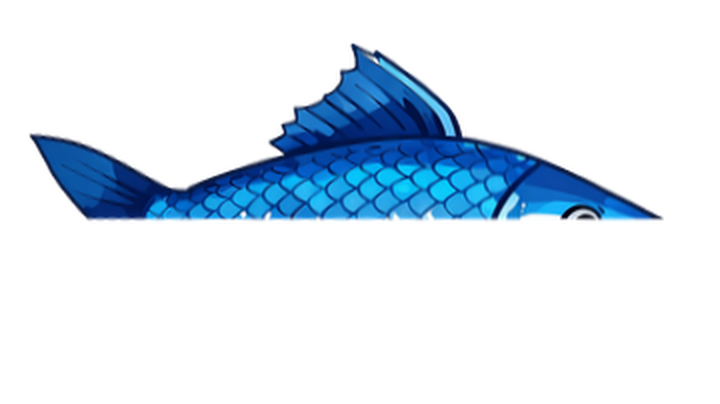
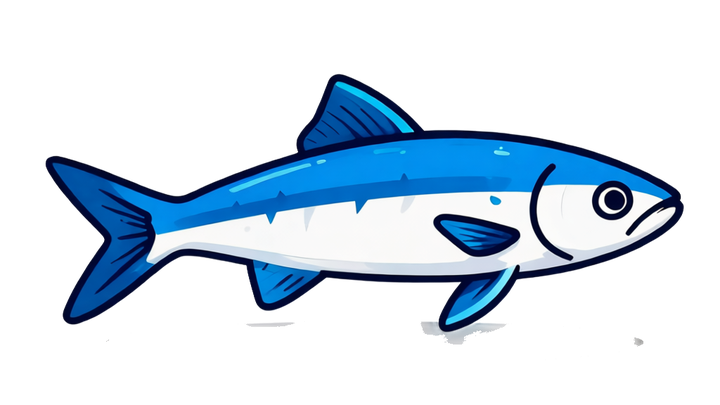
Complete darter (from original ludo commit) + all 10 complete static; add play.html fresh entry point

Changed region(s): [[0.0306, 0.0891, 0.9472, 0.8614], [0.8556, 0.8317, 0.9167, 0.8614]]

diff --git a/fish-hunter/play.html b/fish-hunter/play.html
@@ -1,0 +1,150 @@
+<!DOCTYPE html>
+<html lang="en">
+<head>
+<meta charset="UTF-8">
+<meta name="viewport" content="width=device-width, initial-scale=1.0, maximum-scale=1.0, user-scalable=no">
+<meta name="theme-color" content="#04111f">
+<title>ABYSS HUNTER</title>
+<link rel="stylesheet" href="style.css">
+</head>
+<body>
+
+<!-- ══════════ GAME SHELL ══════════ -->
+<div id="shell">
+
+  <!-- top HUD -->
+  <header id="hud">
+    <a id="back-btn" href="../game-portal/index.html" title="Back to Portal">‹ PORTAL</a>
+    <button id="mute-btn" title="Sound on/off">🔊</button>
+
+    <div class="hud-block">
+      <span class="hud-label">SCORE</span>
+      <span class="hud-value" id="hud-score">0</span>
+    </div>
+
+    <div class="hud-block">
+      <span class="hud-label">CREDITS</span>
+      <span class="credits-val"><span class="coin-ico"></span><span class="hud-value gold" id="hud-credits">0</span></span>
+    </div>
+
+    <div class="hud-block">
+      <span class="hud-label">TIME</span>
+      <span class="hud-value" id="hud-time">90</span>
+    </div>
+
+    <div class="hud-block combo-block" id="combo-block">
+      <span class="hud-label">COMBO</span>
+      <span class="hud-value combo" id="hud-combo">x1</span>
+    </div>
+
+    <button id="exit-btn" title="Exit to menu">⤬ EXIT</button>
+  </header>
+
+  <!-- the game canvas -->
+  <canvas id="game"></canvas>
+
+  <!-- bottom weapon bar -->
+  <footer id="weapon-bar">
+    <button class="wpn-btn" id="wpn-down" aria-label="Lower weapon power">−</button>
+    <div class="wpn-info">
+      <span class="wpn-label">CANNON</span>
+      <span class="wpn-level" id="wpn-level">LV 1</span>
+      <span class="wpn-cost" id="wpn-cost">cost 1 / shot</span>
+    </div>
+    <button class="wpn-btn" id="wpn-up" aria-label="Raise weapon power">+</button>
+    <button id="wpn-mode" class="wpn-mode">SPREAD</button>
+  </footer>
+
+</div>
+
+<!-- ══════════ BOOT / SPLASH ══════════ -->
+<div id="overlay-boot" class="overlay boot">
+  <div class="boot-inner">
+    <!-- ludo.ai hook: drop assets/logo.png and it replaces the text logo automatically -->
+    <img id="boot-logo-img" alt="" />
+    <div id="boot-logo-text" class="boot-logo">ABYSS<span>HUNTER</span></div>
+    <div class="boot-sub">DEEP-SEA SKILL ARCADE</div>
+
+    <div class="loading-wrap">
+      <div class="loading-track"><div id="loading-fill" class="loading-fill"></div></div>
+      <div class="loading-row">
+        <span id="loading-msg">Charting the depths…</span>
+        <span id="loading-pct">0%</span>
+      </div>
+    </div>
+  </div>
+</div>
+
+<!-- ══════════ MENU OVERLAY ══════════ -->
+<div id="overlay-start" class="overlay lobby2 hidden">
+  <div class="lobby2-inner">
+    <img id="menu-logo-img" class="menu-logo-img2" alt="ABYSS HUNTER" />
+    <div class="ov-logo lobby2-logotext" id="menu-logo-text">ABYSS<span>HUNTER</span></div>
+
+    <div class="lobby2-cols">
+      <div class="lobby2-left">
+        <div class="daily-mini" id="menu-daily"></div>
+        <div id="daily-reward" class="daily-reward"></div>
+        <button id="btn-start" class="menu-cta cta-play">PLAY</button>
+        <button id="btn-multi" class="menu-cta secondary">MULTIPLAYER<span class="soon">SOON</span></button>
+        <button id="btn-demo" class="menu-cta secondary">DEMO</button>
+        <button id="btn-credits" class="menu-cta secondary">CREDITS</button>
+        <div id="soon-msg" class="soon-msg"></div>
+      </div>
+
+      <div class="lobby2-right">
+        <div class="panel-title">WEEKLY - BEST SCORES</div>
+        <div class="prize-line">WEEKLY PRIZE - TOP 3 WIN</div>
+        <div id="menu-lb" class="weekly-lb"></div>
+      </div>
+    </div>
+
+    <details class="how-to">
+      <summary>How to play</summary>
+      <div class="ov-rules">
+        <div class="rule"><span class="rk">AIM</span> Move your pointer - the cannon tracks it.</div>
+        <div class="rule"><span class="rk">FIRE</span> Click / tap and hold to shoot.</div>
+        <div class="rule"><span class="rk">POWER</span> Shoot the glowing orbs to activate power-ups.</div>
+        <div class="rule"><span class="rk">GOAL</span> Highest score before the clock runs out.</div>
+      </div>
+    </details>
+  </div>
+</div>
+
+<!-- GAME OVER OVERLAY -->
+<div id="overlay-end" class="overlay hidden">
+  <div class="ov-card">
+    <div class="ov-result">RUN COMPLETE</div>
+    <div class="end-score" id="end-score">0</div>
+    <div class="end-line">Best hunt this run: <strong id="end-biggest">—</strong></div>
+    <div class="end-line" id="end-pb"></div>
+    <div class="end-stats" id="end-stats"></div>
+    <div class="end-daily" id="end-daily"></div>
+    <div class="end-lb" id="end-lb"></div>
+    <button id="btn-again" class="big-btn">HUNT AGAIN</button>
+    <a class="text-link" href="../game-portal/index.html">← Back to Portal</a>
+  </div>
+</div>
+
+<!-- CREDITS / PROFILE -->
+<div id="overlay-credits" class="overlay hidden">
+  <div class="ov-card">
+    <div class="ov-result">YOUR PROFILE</div>
+    <div id="credits-stats" class="credits-stats"></div>
+    <button id="credits-close" class="big-btn">DONE</button>
+  </div>
+</div>
+
+<!-- CANNON SHOP -->
+<div id="overlay-shop" class="overlay hidden">
+  <div class="ov-card shop-card">
+    <div class="ov-result">CANNON SHOP</div>
+    <div class="shop-wallet">Wallet: <strong id="shop-wallet">0</strong> credits</div>
+    <div id="shop-grid" class="shop-grid"></div>
+    <button id="shop-close" class="big-btn">DONE</button>
+  </div>
+</div>
+
+<script>(function(){var s=document.createElement("script");s.src="game.js?t="+Date.now();document.body.appendChild(s);})();</script>
+</body>
+</html>
